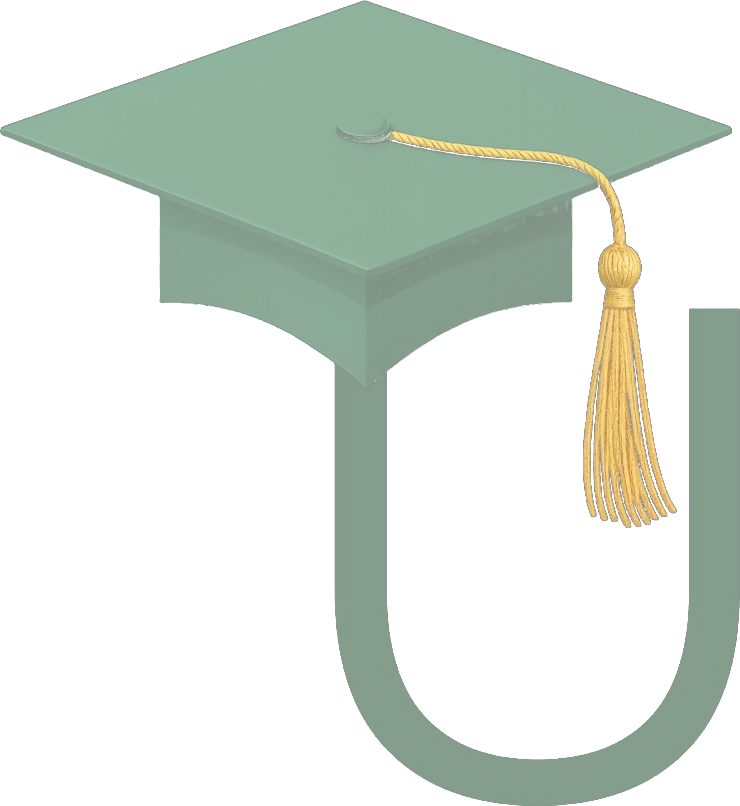
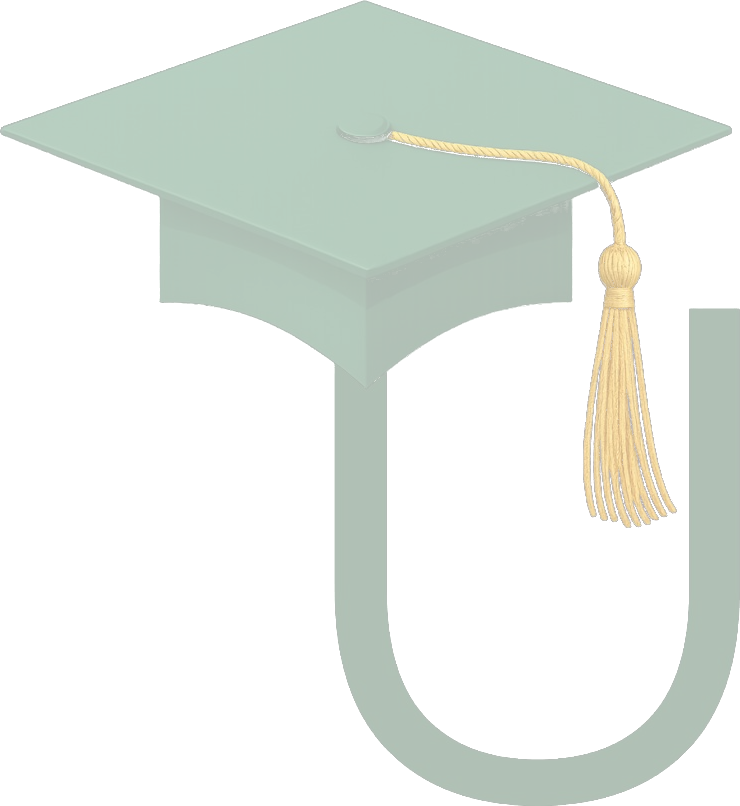
Remettre les filigranes des deux faces, le recto sous l'en-tête.

diff --git a/Afrcaiim Card/static/rendu-carte.js b/Afrcaiim Card/static/rendu-carte.js
@@ -265,7 +265,7 @@ function filigraneLogo(px, face, largeurMm, hauteurMm) {
   const largeur = hauteur * ratio;
   const droite = 1;
   const gauche = (largeurMm || (portrait ? 54 : 85.6)) - largeur - droite;
-  img.src = recto ? "/static/filigrane.png?v=11" : "/static/filigrane-verso.png?v=11";
+  img.src = recto ? "/static/filigrane.png?v=12" : "/static/filigrane-verso.png?v=12";
   img.style.cssText = `position:absolute;left:${gauche * px}px;top:${haut * px}px;width:${largeur * px}px;height:${hauteur * px}px;object-fit:contain;pointer-events:none;z-index:1`;
   return img;
 }

diff --git a/Afrcaiim Card/templates/imprimer.html b/Afrcaiim Card/templates/imprimer.html
@@ -54,7 +54,7 @@
   <div id="recto" class="feuille"></div>
   <div id="verso" class="feuille"></div>
   <script id="donnees" type="application/json">{{ donnees | tojson }}</script>
-  <script src="/static/rendu-carte.js?v=46"></script>
+  <script src="/static/rendu-carte.js?v=49"></script>
   <script>
     const csrf = document.querySelector('meta[name="csrf"]').content;
     const data = JSON.parse(document.getElementById("donnees").textContent);

diff --git a/Afrcaiim Card/templates/imprimer_personnel.html b/Afrcaiim Card/templates/imprimer_personnel.html
@@ -53,7 +53,7 @@
   <div id="recto" class="feuille"></div>
   <div id="verso" class="feuille"></div>
   <script id="donnees" type="application/json">{{ donnees | tojson }}</script>
-  <script src="/static/rendu-carte.js?v=46"></script>
+  <script src="/static/rendu-carte.js?v=49"></script>
   <script>
     const data = JSON.parse(document.getElementById("donnees").textContent);
     const recto = document.getElementById("recto");

diff --git a/Afrcaiim Card/templates/studio.html b/Afrcaiim Card/templates/studio.html
@@ -235,7 +235,7 @@
     "tarifPersonnel": abonnement_personnel
   } | tojson }}</script>
   <script id="ecoles-officielles" type="application/json">{{ ecoles | tojson }}</script>
-  <script src="/static/rendu-carte.js?v=46"></script>
+  <script src="/static/rendu-carte.js?v=49"></script>
   <script src="/static/studio.js?v=39"></script>
   <script src="/static/abonnement.js?v=1" defer></script>
 </body>

diff --git a/Afrcaiim Card/templates/lot_apercu.html b/Afrcaiim Card/templates/lot_apercu.html
@@ -33,7 +33,7 @@
     </div>
   </div>
   <script id="donnees" type="application/json">{{ donnees | tojson }}</script>
-  <script src="/static/rendu-carte.js?v=46"></script>
+  <script src="/static/rendu-carte.js?v=49"></script>
   <script src="/static/impression-locale.js?v=2"></script>
   <script src="/static/lot-apercu.js?v=6"></script>
 </body>

diff --git a/Afrcaiim Card/app/services/pdf_carte.py b/Afrcaiim Card/app/services/pdf_carte.py
@@ -644,9 +644,9 @@ def _png_filigrane(recto: bool) -> bytes:
     from PIL import Image
 
     source = Image.open(ROOT / "static" / "marque-u.png").convert("RGBA")
-    # Recto un peu plus présent, verso plus discret. Toujours opaque : pas de masque qui vire au gris.
-    force_vert = 0.50 if recto else 0.32
-    force_or = 0.72 if recto else 0.48
+    # Même discrétion sur les deux faces. Opaque : la Primacy n'éclaircit pas un masque.
+    force_vert = 0.32
+    force_or = 0.48
     pixels = []
     for rouge, vert, bleu, alpha in source.get_flattened_data():
         if alpha < 16:
